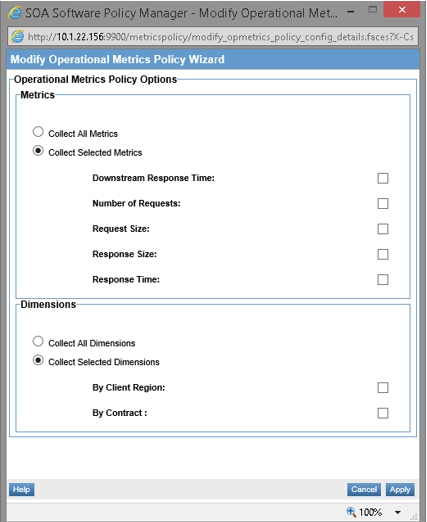
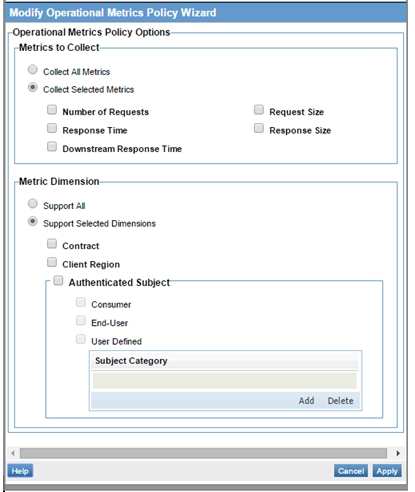
sm-16966 updates to operation metrics policy

diff --git a/ag/policies/using_the_operational_metrics_policy.htm b/ag/policies/using_the_operational_metrics_policy.htm
@@ -56,16 +56,18 @@ nav-title: Using the Operational Metrics Policy
 <h4>Dimensions</h4>
 <p>You can enable the collection of <em>all</em> or <em>selected</em> dimensions. Options include:</p>
 <ul class="usingOrderedList">
-  <li><strong>Collect All Dimensions</strong> - Enables collection of all dimension types. </li>
-  <li><strong>Collect Selected Dimensions</strong> - Enables the collection of selected dimension types. </li>
+  <li><strong>Support All</strong> - Enables collection of all dimension types. </li>
+  <li><strong>Support Selected Dimensions</strong> - Enables the collection of selected dimension types. </li>
 </ul>
 <p>Supported dimensions  include: </p>
 <ul type="disc">
   <li>By Client Region</li>
-  <li>By Contract</li>
+  <li>By Contract<br />
+    <br />
+  <em>Authenticated Subject</em> - This option allows you to assign a category name to the selected dimension. Predefined categories include Consumer, End-User, and User Defined. The &quot;User Defined&quot;  option allows you to specify a custom category name.</li>
 </ul>
-<img src="images/op_metrics_policy_modify.jpg" width="427" height="522" />
 
+<img src="images/op_metrics_policy_modify.jpg" width="415" height="492" />
 <p><a href="#top">back to top</a></p></a><a name="configuration">
 <h3>Configuration</h3></a>
 <p>Refer to <a href="op_metrics_policy_use_case_generate_chart.html" >How Do I Generate a Chart from Operational Metrics Obtained from Service Operational Data</a> for a complete walk-through tutorial on adding and configuring an Operational Metrics Policy, generating audit and log data for a virtual service, and using this data in the <em>Envision Console</em> to generate a variety of different charts. 
